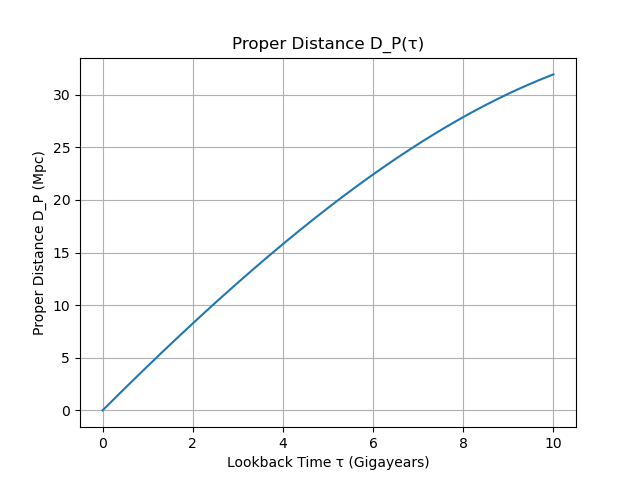
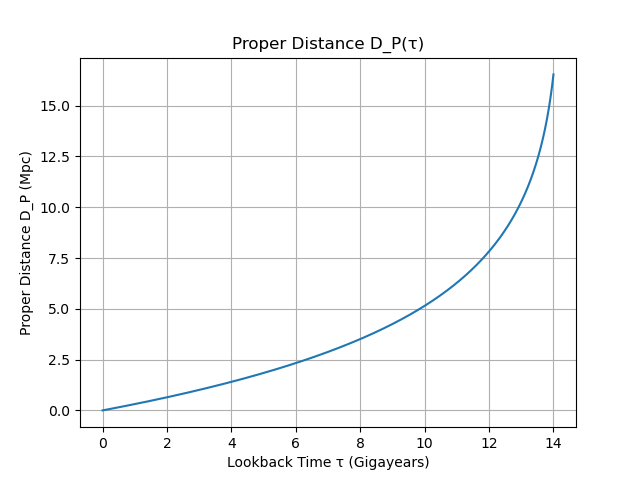
fixed the code

diff --git a/cosmological_calculator.py b/cosmological_calculator.py
@@ -3,14 +3,14 @@ import matplotlib.pyplot as plt
 
 # Constants
 dtau = 0.01  # Step size in Gigayears
-Omega_m0 = 0.3
-Omega_lambda0 = 0.7
+Omega_m0 = 0.0
+Omega_lambda0 = 0.0
 Omega_k0 = 1 - Omega_m0 - Omega_lambda0
 H_0 = 0.07  # in units of 1/Gigayear
 c = 299792.458 * 1e-3  # Speed of light in Mpc/Gyr
 
 # Number of steps and maximum lookback time (Gigayears)
-tau_max = 10  # Maximum lookback time in Gigayears
+tau_max = 14  # Maximum lookback time in Gigayears
 num_steps = int(tau_max / dtau)
 
 # Differential equation for da/dtau
@@ -52,7 +52,7 @@ for i in range(1, num_steps):
     a[i] = max(a[i-1] + dtau * da_dtau(a[i-1]), 1e-10)  # Prevent a from becoming zero or negative
     z[i] = 1 / a[i] - 1
     H_z[i] = H_a(a[i])
-    D_C[i] = D_C[i-1] + (c / H_a(a[i-1])) * dtau  # Comoving distance integral
+    D_C[i] = D_C[i-1] + (c / a[i-1]) * dtau  # Comoving distance integral
     D_P[i] = D_C[i] # Proper distance
     D_A[i] = D_C[i] / (1 + z[i])  # Angular diameter distance
     D_L[i] = D_C[i] * (1 + z[i])  # Luminosity distance
@@ -116,7 +116,7 @@ plt.savefig('scale factor.png')
 
 # Plot for redshift z(tau)
 plt.clf()
-plt.plot(tau, z)
+plt.plot(z,tau)
 plt.xlabel('Lookback Time τ (Gigayears)')
 plt.ylabel('Redshift z')
 plt.title('Redshift z(τ)')
